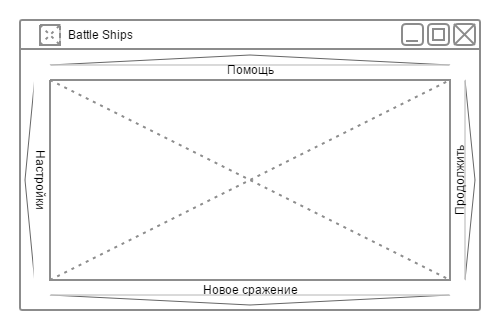
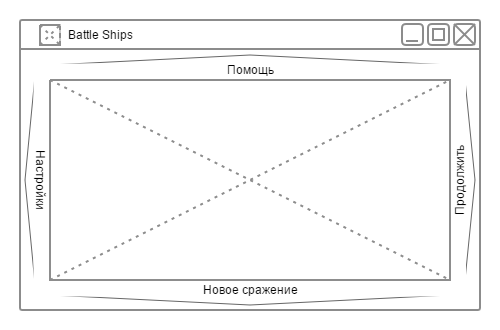
Новые картинки для спецификации Game.md, дописал Readme.md

Changed region(s): [[0.09, 0.8788, 0.9, 0.9091], [0.09, 0.1818, 0.9, 0.2121]]

diff --git a/Readme.md b/Readme.md
@@ -2,22 +2,23 @@
 ===========
 
 Коротко обо всем
----------------
-Приветствую Вас, в репозитории посвященном моей реализации игры "Морской бой".
+----------------
+Приветствую Вас в репозитории, посвященном моей реализации игры "Морской бой".
 Я начал этот проект в рамках самостоятельного изучения программирования.
 Создание игры - это отличный способ научиться программировать, подумал я, а игра "Морской бой"
-долстаточно проста, чтобы начать именно с нее, но в то же время достаточно сложна,
-чтобы разработка не была скучной. В ходе создания этой игры было перелопачено не мало материала,
+достаточно проста, чтобы начать именно с нее, но в то же время достаточно сложна,
+чтобы разработка не была скучной. В ходе создания этой игры было перелопачено немало материала,
 который в конце концов превратился в незабываемый опыт. К тому же наличие такого проекта приятно тяжелит
-портфолио! Итак, давайте приступим к изложению сути. Если Вы как и я самостоятельно изучаете программирование, 
+портфолио! Итак, давайте приступим к изложению сути. Если Вы, как и я, самостоятельно изучаете программирование, 
 я предлагаю Вам воспользоваться материалами этого проекта как пособием к обучению.
-К репозиторию приложено все проектирование и прототипирование. Предлагаю Вам ознакомиться с этими материалами,
-и воспользоваться ими для собственной реалицзации этой замечательной игры. Если Вы считаете,
-что где-то можно было сделать лучше, то я с радостью выслушаю конструктивную критику. Приятного прочтения.
+К репозиторию приложены спецификация, прототипирование, а так же все проектирование.
+Предлагаю Вам ознакомиться с этими материалами и воспользоваться ими для собственной реализации
+этой замечательной игры. Если Вы считаете, что что-то реализовано не лучшим образом,
+то я с радостью выслушаю конструктивную критику (mod.satyr@gmail.com). Приятного прочтения!
 
 Содержание
 ----------
-Прототипирование:
+Спецификация и прототипирование:
 
 * [Игра](engineering/prototyping/Game.md)
 * [Сражение](engineering/prototyping/Round.md)
@@ -28,8 +29,14 @@
 
 Правила игры
 ------------
-Описание отсутствует.
+Игра начинается с расстановки кораблей. Игроки расставляют свои корабли таким образом,
+чтобы между кораблями всегда был минимум один сектор. Корабль может занимать только
+соседние друг с другом секторы. Секторы, расположенные по диагонали по отношению друг к другу,
+соседними не являются.  Когда расставлены все корабли, доступные игрокам, начинается сражение.
+Во время сражения игроки обмениваются выстрелами до тех пор, пока у одного из них не будут
+потоплены все корабли. Этот игрок считается проигравшим, и сражение заканчивается.
 
 Ссылка для скачивания приложения
 --------------------------------
-Описание отсутствует.
+Работоспособный билд отсутствует на данный момент. Когда будет реализован весь описанный в спецификации функционал,
+эта версия приложения будет доступна для скачивания и ссылка на нее будет размещеная здесь.
